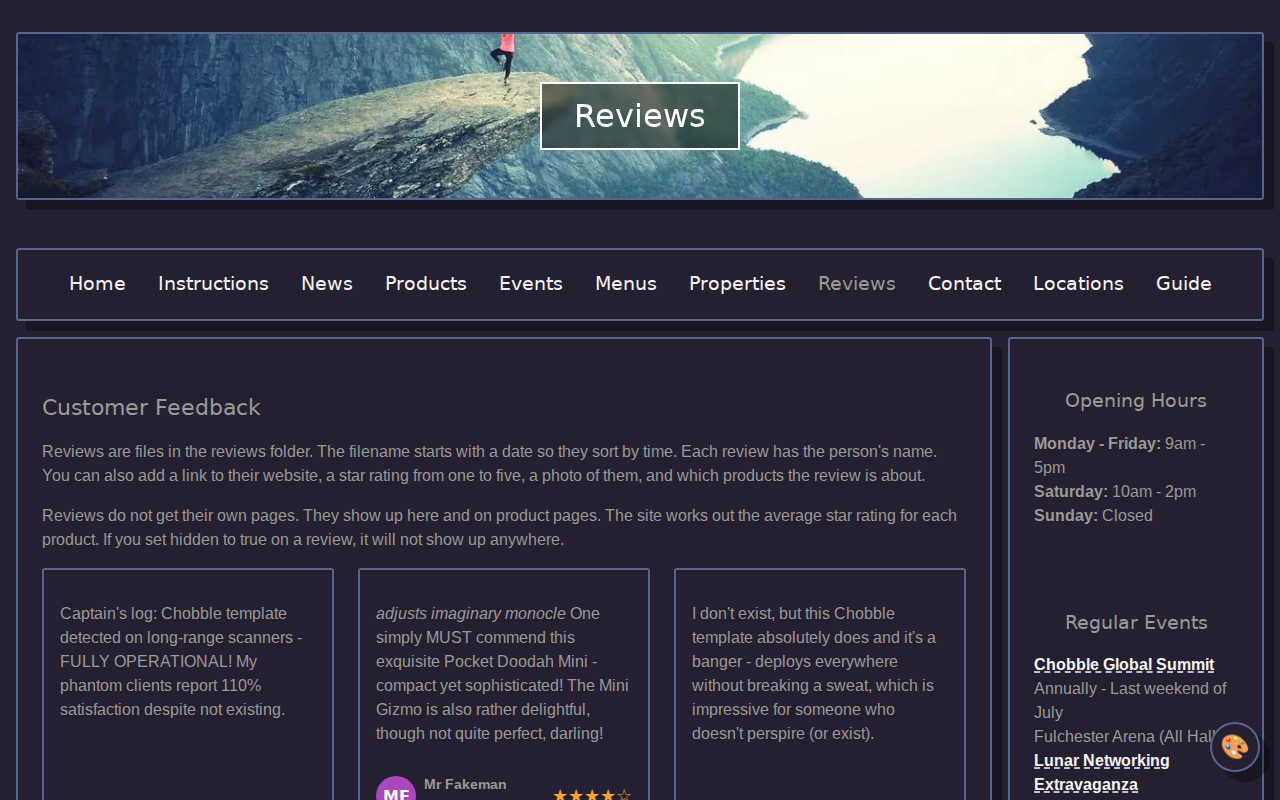
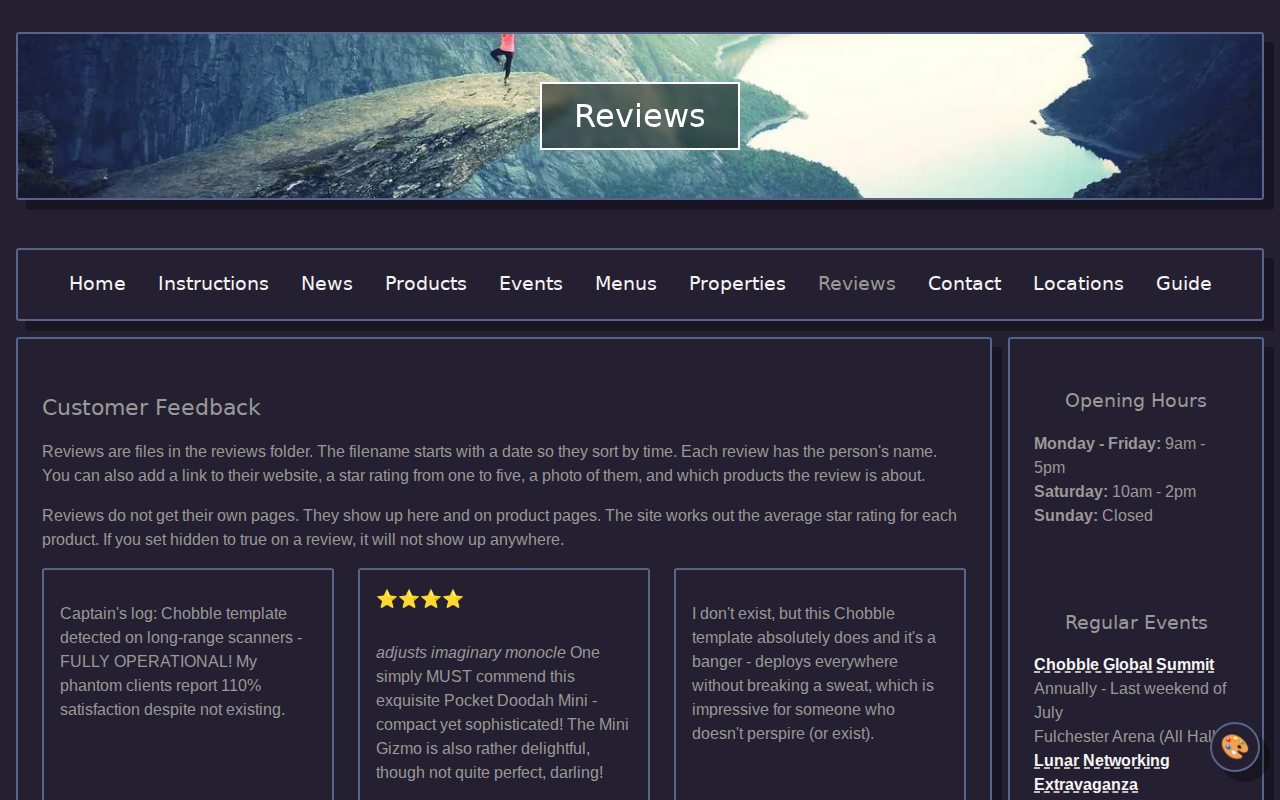
Rearrange review card layout and use ratingToStars filter
New order:
- Stars (using existing ratingToStars filter)
- Review content
- Author info: avatar | name, date, link stacked
- Product links

Simplified CSS with .author-info and .author-details containers

Changed region(s): [[0.2812, 0.7188, 0.5, 1.0]]

diff --git a/src/_includes/reviews-list-item.html b/src/_includes/reviews-list-item.html
@@ -1,49 +1,43 @@
 <li>
+  {%- if review.data.rating -%}
+    <span class="rating" aria-label="{{ review.data.rating }} out of 5 stars">{{ review.data.rating | ratingToStars }}</span>
+  {%- endif -%}
   <span class="review">{{ review.content }}</span>
-  <div class="meta">
-    <span class="name">
-      {%- if review.data.thumbnail -%}
-        <img
-          src="{{ review.data.thumbnail }}"
-          alt=""
-          class="reviewer-avatar"
-          width="80"
-          height="80"
-          eleventy:widths="40,80"
-          loading="lazy"
-        >
-      {%- elsif review.data.name -%}
-        <img
-          src="{{ review.data.name | reviewerAvatar }}"
-          alt=""
-          class="reviewer-avatar"
-          width="80"
-          height="80"
-          loading="lazy"
-        >
-      {%- endif -%}
-      <span>
-        {{ review.data.name }}
-        {%- if review.data.url -%}
-          {%- assign link_text = "View review" -%}
-          {%- if review.data.url contains "google.com" -%}
-            {%- assign link_text = "View on Google" -%}
-          {%- elsif review.data.url contains "facebook.com" -%}
-            {%- assign link_text = "View on Facebook" -%}
-          {%- endif -%}
-          <br><a href="{{ review.data.url }}" target="_blank" rel="nofollow">{{ link_text }}</a>
-        {%- endif -%}
-      </span>
-    </span>
-    {%- if review.data.rating -%}
-      <span class="rating" aria-label="{{ review.data.rating }} out of 5 stars">
-        {%- for i in (1..5) -%}
-          {%- if i <= review.data.rating -%}★{%- else -%}☆{%- endif -%}
-        {%- endfor -%}
-      </span>
+  <div class="author-info">
+    {%- if review.data.thumbnail -%}
+      <img
+        src="{{ review.data.thumbnail }}"
+        alt=""
+        class="reviewer-avatar"
+        width="80"
+        height="80"
+        eleventy:widths="40,80"
+        loading="lazy"
+      >
+    {%- elsif review.data.name -%}
+      <img
+        src="{{ review.data.name | reviewerAvatar }}"
+        alt=""
+        class="reviewer-avatar"
+        width="80"
+        height="80"
+        loading="lazy"
+      >
     {%- endif -%}
+    <div class="author-details">
+      <span class="name">{{ review.data.name }}</span>
+      <span class="date">{{ review.page.date | date: "%b '%y" }}</span>
+      {%- if review.data.url -%}
+        {%- assign link_text = "View review" -%}
+        {%- if review.data.url contains "google.com" -%}
+          {%- assign link_text = "View on Google" -%}
+        {%- elsif review.data.url contains "facebook.com" -%}
+          {%- assign link_text = "View on Facebook" -%}
+        {%- endif -%}
+        <a href="{{ review.data.url }}" class="review-link" target="_blank" rel="nofollow">{{ link_text }}</a>
+      {%- endif -%}
+    </div>
   </div>
-  <span class="date">{{ review.page.date | date: "%b '%y" }}</span>
   {%- if product_links and review.data.products.size > 0 -%}
     <span class="products">
       {%- for slug in review.data.products -%}

diff --git a/src/css/style.scss b/src/css/style.scss
@@ -413,33 +413,26 @@ blockquote {
     }
   }
 
+  .rating {
+    color: #f5a623;
+    font-size: 1.1rem;
+  }
+
   .review {
     flex: 1;
     font-size: 1rem;
     line-height: var(--line-height);
   }
 
-  .meta {
-    display: grid;
-    grid-template-columns: 1fr auto;
-    gap: 0.5rem;
-    align-items: center;
+  .author-info {
+    display: flex;
+    align-items: flex-start;
+    gap: 0.75rem;
     margin-top: auto;
 
     @include breakpoints.down("sm") {
-      grid-template-columns: 1fr;
-      justify-items: center;
-    }
-  }
-
-  .name {
-    display: flex;
-    align-items: center;
-    gap: 0.5rem;
-    font-weight: bold;
-
-    @include breakpoints.down("sm") {
-      justify-content: center;
+      flex-direction: column;
+      align-items: center;
     }
 
     .reviewer-avatar {
@@ -449,30 +442,26 @@ blockquote {
       object-fit: cover;
       flex-shrink: 0;
     }
-
-    span {
-      font-size: 0.9rem;
-      a {
-        font-weight: normal;
-        font-size: 0.8rem;
-      }
-    }
   }
 
-  .rating {
-    color: #f5a623;
-    font-size: 1.1rem;
-    text-align: right;
+  .author-details {
+    display: flex;
+    flex-direction: column;
+    gap: 0.15rem;
+    font-size: 0.9rem;
+  }
 
-    @include breakpoints.down("sm") {
-      text-align: center;
-    }
+  .name {
+    font-weight: bold;
   }
 
   .date {
     font-size: 0.8rem;
-    font-style: italic;
     opacity: 0.7;
+  }
+
+  .review-link {
+    font-size: 0.8rem;
   }
 
   .products {
